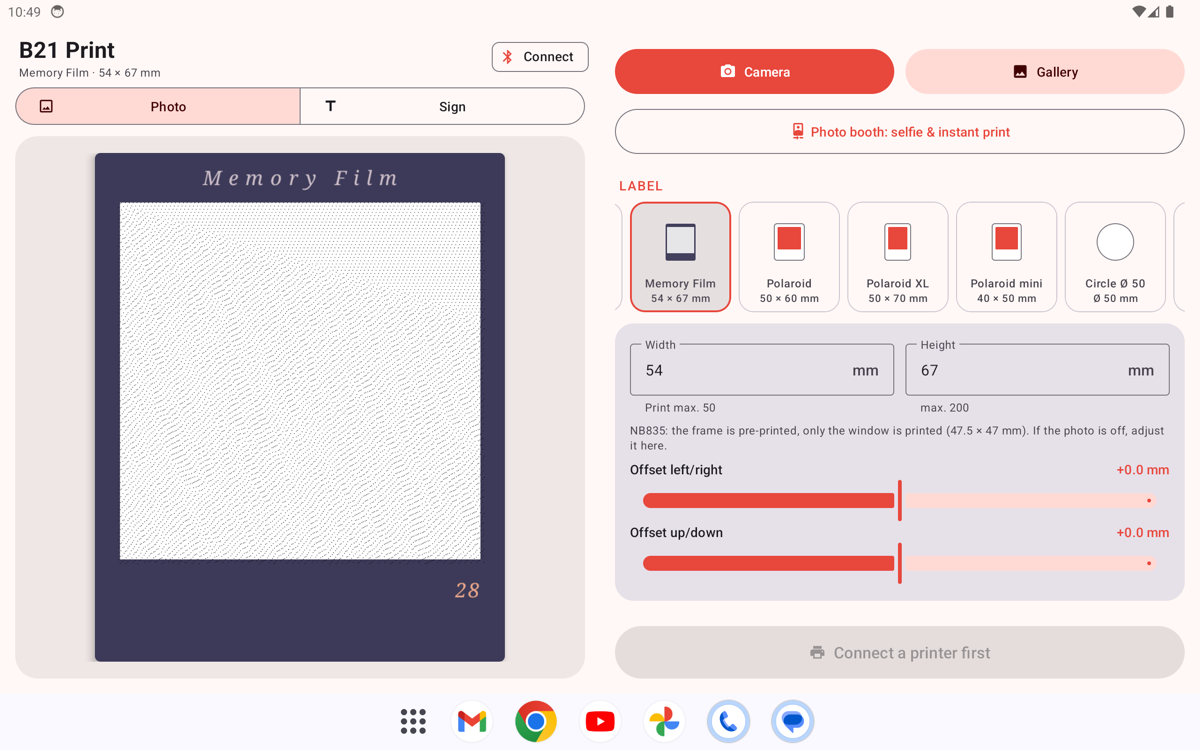
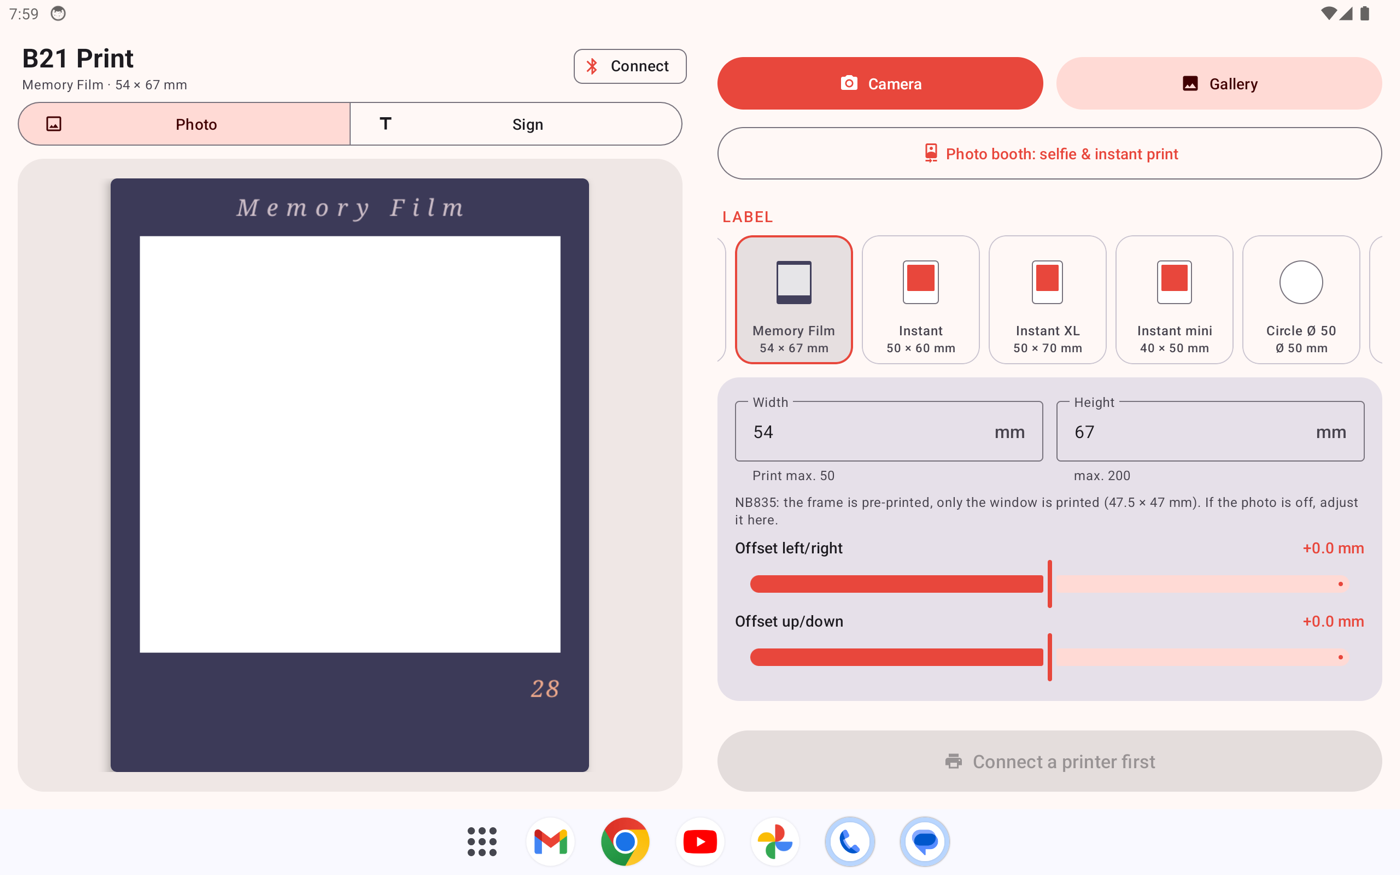
Print quality, print speed, booth button fix, rename to Instant
- Dot-gain compensation and softer sharpening so mid-tones no longer bleed to
  black at full heat; preview now simulates the ink spread to match the print.
- Print speed toggle (fine/fast) via the D110M_V4 print-start byte.
- Photo booth: icon-only flash so the flip-camera button stays on screen on phones.
- Replace the Polaroid trademark with Instant throughout (UI, code, docs, screenshots).

diff --git a/app/src/main/java/de/b21print/MainActivity.kt b/app/src/main/java/de/b21print/MainActivity.kt
@@ -90,7 +90,7 @@ class MainActivity : AppCompatActivity() {
     private lateinit var editCaption: TextInputEditText
     private lateinit var editCopies: TextInputEditText
     private lateinit var editText: TextInputEditText
-    private lateinit var switchPolaroid: MaterialSwitch
+    private lateinit var switchInstant: MaterialSwitch
     private lateinit var switchInvert: MaterialSwitch
     private lateinit var toggleMode: MaterialButtonToggleGroup
     private lateinit var toggleFont: MaterialButtonToggleGroup
@@ -121,7 +121,7 @@ class MainActivity : AppCompatActivity() {
         editCaption = findViewById(R.id.editCaption)
         editCopies = findViewById(R.id.editCopies)
         editText = findViewById(R.id.editText)
-        switchPolaroid = findViewById(R.id.switchPolaroid)
+        switchInstant = findViewById(R.id.switchInstant)
         switchInvert = findViewById(R.id.switchInvert)
         toggleMode = findViewById(R.id.toggleMode)
         toggleFont = findViewById(R.id.toggleFont)
@@ -188,12 +188,17 @@ class MainActivity : AppCompatActivity() {
             txtDensity.text = v.toInt().toString()
             prefs.edit().putInt("density", v.toInt()).apply()
         }
+        val toggleSpeed = findViewById<MaterialButtonToggleGroup>(R.id.toggleSpeed)
+        toggleSpeed.check(if (prefs.getInt("speed", 1) == 0) R.id.speedFast else R.id.speedFine)
+        toggleSpeed.addOnButtonCheckedListener { _, id, checked ->
+            if (checked) prefs.edit().putInt("speed", if (id == R.id.speedFast) 0 else 1).apply()
+        }
 
         // Label
         editWidth.doAfterTextChanged { onSizeEdited() }
         editHeight.doAfterTextChanged { onSizeEdited() }
         editCaption.doAfterTextChanged { scheduleRender() }
-        switchPolaroid.setOnCheckedChangeListener { _, _ -> applyModeVisibility(); scheduleRender() }
+        switchInstant.setOnCheckedChangeListener { _, _ -> applyModeVisibility(); scheduleRender() }
         // Fine-tuning is stored per label (calibrate once)
         val txtOffX = findViewById<TextView>(R.id.txtOffsetX)
         val txtOffY = findViewById<TextView>(R.id.txtOffsetY)
@@ -278,8 +283,8 @@ class MainActivity : AppCompatActivity() {
         show(R.id.imageSection, photo)
         show(R.id.textCard, !photo)
         show(R.id.windowTuning, win)
-        show(R.id.switchPolaroid, photo && !win && !selectedLabel.round)
-        show(R.id.captionLayout, photo && !win && switchPolaroid.isChecked)
+        show(R.id.switchInstant, photo && !win && !selectedLabel.round)
+        show(R.id.captionLayout, photo && !win && switchInstant.isChecked)
     }
 
     // ---------- Label list ----------
@@ -325,7 +330,7 @@ class MainActivity : AppCompatActivity() {
                     ((preset.widthMm - win.x - win.w) * s).toInt(), ((preset.heightMm - win.y - win.h) * s).toInt())
             }
         }
-        if (!preset.polaroid) return frame
+        if (!preset.instant) return frame
         val photo = GradientDrawable().apply { setColor(primary); cornerRadius = dp(1f) }
         return LayerDrawable(arrayOf(frame, photo)).apply {
             val side = dp(4f).toInt()
@@ -348,7 +353,7 @@ class MainActivity : AppCompatActivity() {
             editWidth.setText(fmt(preset.widthMm))
             editHeight.setText(fmt(preset.heightMm))
             suppressEdits = false
-            switchPolaroid.isChecked = preset.polaroid
+            switchInstant.isChecked = preset.instant
         }
         preset.window?.let { win ->
             findViewById<TextView>(R.id.txtWindowInfo).text =
@@ -369,9 +374,9 @@ class MainActivity : AppCompatActivity() {
         // Only count real input, not Android restoring state
         if (suppressEdits || !(editWidth.hasFocus() || editHeight.hasFocus())) return
         if (!selectedLabel.freestyle) {
-            val pol = switchPolaroid.isChecked
+            val pol = switchInstant.isChecked
             selectLabel(Labels.FREESTYLE)
-            switchPolaroid.isChecked = pol
+            switchInstant.isChecked = pol
         }
         scheduleRender()
     }
@@ -618,7 +623,7 @@ class MainActivity : AppCompatActivity() {
             brightness = sliderBrightness.value.toInt(),
             contrast = sliderContrast.value.toInt(),
             invert = switchInvert.isChecked,
-            polaroid = switchPolaroid.isChecked && !label.round,
+            instant = switchInstant.isChecked && !label.round,
             caption = editCaption.text?.toString().orEmpty(),
             offsetXMm = if (label.window != null) sliderOffsetX.value.toDouble() else 0.0,
             offsetYMm = if (label.window != null) sliderOffsetY.value.toDouble() else 0.0,
@@ -638,8 +643,8 @@ class MainActivity : AppCompatActivity() {
         l.window?.let { return (it.w / it.h).toFloat() }
         if (l.round) return 1f
         val (wmm, hmm) = labelSizeMm()
-        if (switchPolaroid.isChecked) {
-            val r = ImageProcessor.polaroidPhotoRect(ImageProcessor.mmToPx(minOf(wmm, 50.0)), ImageProcessor.mmToPx(hmm))
+        if (switchInstant.isChecked) {
+            val r = ImageProcessor.instantPhotoRect(ImageProcessor.mmToPx(minOf(wmm, 50.0)), ImageProcessor.mmToPx(hmm))
             return r.width().toFloat() / r.height()
         }
         return (minOf(wmm, 50.0) / hmm).toFloat()
@@ -819,6 +824,7 @@ class MainActivity : AppCompatActivity() {
             photoAspect = photoAspect(),
             options = photoOptions(ImageProcessor.Fit.COVER),
             density = sliderDensity.value.toInt(),
+            speed = prefs.getInt("speed", 1),
             labelType = intArrayOf(1, 2, 3, 5)[paperIndex],
             copies = num(editCopies.text, 1.0).toInt().coerceIn(1, 20),
         )
@@ -832,6 +838,7 @@ class MainActivity : AppCompatActivity() {
         val copies = num(editCopies.text, 1.0).toInt().coerceIn(1, 999)
         val labelType = intArrayOf(1, 2, 3, 5)[paperIndex]
         val textStyle = if (textMode) currentTextStyle() else null
+        p.speed = prefs.getInt("speed", 1)
         btnPrint.isEnabled = false
         btnPrint.setText(R.string.printing)
         progress.visibility = View.VISIBLE

diff --git a/app/src/main/java/de/b21print/ImageProcessor.kt b/app/src/main/java/de/b21print/ImageProcessor.kt
@@ -23,7 +23,7 @@ object ImageProcessor {
         val brightness: Int,   // -60..60
         val contrast: Int,     // -50..50
         val invert: Boolean,
-        val polaroid: Boolean,
+        val instant: Boolean,
         val caption: String,
         val offsetXMm: Double = 0.0,
         val offsetYMm: Double = 0.0,
@@ -38,8 +38,8 @@ object ImageProcessor {
 
     fun mmToPx(mm: Double) = Math.round(mm / 25.4 * Niimbot.DPI).toInt()
 
-    // Polaroid look: equal border top/sides, wider bottom border for the caption
-    fun polaroidPhotoRect(w: Int, h: Int): Rect {
+    // Instant look: equal border top/sides, wider bottom border for the caption
+    fun instantPhotoRect(w: Int, h: Int): Rect {
         val side = Math.round(w * 0.07f)
         val minBottom = Math.round(h * 0.2f)
         val photoW = w - 2 * side
@@ -81,7 +81,7 @@ object ImageProcessor {
                 mmToPx(window.x + window.w + BLEED_MM + o.offsetXMm) - headLeft,
                 mmToPx(window.y + window.h + BLEED_MM + o.offsetYMm),
             ).apply { intersect(0, 0, w, h) }
-            o.polaroid -> polaroidPhotoRect(w, h)
+            o.instant -> instantPhotoRect(w, h)
             else -> Rect(0, 0, w, h)
         }
         if (round) {
@@ -92,7 +92,7 @@ object ImageProcessor {
         }
         if (src != null) {
             drawFitted(canvas, src, area, o.fit, o.rotation)
-        } else if (o.polaroid || window != null) {
+        } else if (o.instant || window != null) {
             // Placeholder so the layout is visible
             canvas.drawRect(area, Paint().apply { color = Color.rgb(210, 210, 210) })
         }
@@ -102,7 +102,7 @@ object ImageProcessor {
         val bits = toBits(px, w, h, area, o)
         canvasBmp.recycle()
 
-        if (o.polaroid && window == null) {
+        if (o.instant && window == null) {
             // Thin line around the photo so bright images still stand out
             for (x in area.left until area.right) {
                 bits[area.top * w + x] = 1; bits[(area.bottom - 1) * w + x] = 1
@@ -126,8 +126,24 @@ object ImageProcessor {
             val r = mmToPx(window.x + window.w); val b = mmToPx(window.y + window.h)
             for (y in t until minOf(b, h)) for (x in l until minOf(r, labelW)) out[y * labelW + x] = Color.WHITE
         }
+        // Simulate the printed dot: each black cell bleeds a little into its neighbours, so the
+        // preview darkens by the same amount the tones were pre-lightened for. Preview ≈ print.
         for (y in 0 until h) for (x in 0 until w) {
-            if (bits[y * w + x].toInt() != 0) out[y * labelW + headLeft + x] = Color.BLACK
+            val i = y * w + x
+            if (bits[i].toInt() != 0) {
+                out[y * labelW + headLeft + x] = Color.BLACK
+            } else if (x > 0 && y > 0 && x < w - 1 && y < h - 1) {
+                var n = 0
+                if (bits[i - 1].toInt() != 0) n++
+                if (bits[i + 1].toInt() != 0) n++
+                if (bits[i - w].toInt() != 0) n++
+                if (bits[i + w].toInt() != 0) n++
+                if (n > 0) {
+                    val ink = (DOT_GAIN * n / 4.0).coerceIn(0.0, 1.0)
+                    val g = (255 * (1 - ink)).toInt()
+                    out[y * labelW + headLeft + x] = Color.rgb(g, g, g)
+                }
+            }
         }
         return Bitmap.createBitmap(out, labelW, h, Bitmap.Config.ARGB_8888).let {
             if (window != null && frameColor != null) decorateFilm(it, window) else it
@@ -190,8 +206,13 @@ object ImageProcessor {
         g * a + 255f * (1 - a)
     }
 
+    // At full heat each printed dot bleeds into its neighbours, so a mid-tone dither pattern
+    // comes out much darker than on screen. We pre-lighten the tones by the inverse of that
+    // spread; black and white stay put, mid-tones lose ink. 0 = off, ~0.55 = strong thermal.
+    private const val DOT_GAIN = 0.55
+
     // Prepare tones for thermal printing: auto contrast in the photo area, brightness/contrast,
-    // gamma against dot gain, and light sharpening.
+    // gentle sharpening, and dot-gain compensation so the print matches the preview.
     private fun prepare(gray: FloatArray, w: Int, h: Int, area: Rect, o: Options) {
         val r = Rect(area).apply { intersect(0, 0, w, h) }
         if (r.isEmpty) return
@@ -209,21 +230,26 @@ object ImageProcessor {
         if (hi - lo < 32f) { lo = 0f; hi = 255f }
         val contrast = 1f + o.contrast / 50f * 0.8f
         val bright = o.brightness * 1.5f
-        val gamma = if (o.raster == Raster.TEXT) 1f else 0.75f
+        val photo = o.raster != Raster.TEXT
 
-        // Unsharp mask (3×3) for more detail at 300 dpi
+        // Unsharp mask (3×3); kept light so scaled high-contrast edges do not bloom at full heat
         val src = gray.copyOf()
         for (y in r.top until r.bottom) for (x in r.left until r.right) {
             val i = y * w + x
             var v = src[i]
-            if (o.raster != Raster.TEXT && x > r.left && y > r.top && x < r.right - 1 && y < r.bottom - 1) {
+            if (photo && x > r.left && y > r.top && x < r.right - 1 && y < r.bottom - 1) {
                 val blur = (src[i - 1] + src[i + 1] + src[i - w] + src[i + w] + 4 * v) / 8f
-                v += 0.8f * (v - blur)
+                v += 0.4f * (v - blur)
             }
             v = (v - lo) / (hi - lo) * 255f
             v = (v - 128f) * contrast + 128f + bright
-            v = 255f * Math.pow((v / 255f).coerceIn(0f, 1f).toDouble(), gamma.toDouble()).toFloat()
-            gray[i] = if (o.invert) 255f - v else v
+            if (photo) {
+                // Dot-gain compensation in ink-coverage space (d = 1 - v, 1 = full black)
+                val d = (1f - v / 255f).coerceIn(0f, 1f)
+                val di = d * (1f - DOT_GAIN.toFloat() * (1f - d))
+                v = (1f - di) * 255f
+            }
+            gray[i] = if (o.invert) 255f - v else v.coerceIn(0f, 255f)
         }
     }
 

diff --git a/app/src/main/java/de/b21print/BoothActivity.kt b/app/src/main/java/de/b21print/BoothActivity.kt
@@ -49,6 +49,7 @@ object Booth {
         val photoAspect: Float,
         val options: ImageProcessor.Options,
         val density: Int,
+        val speed: Int,
         val labelType: Int,
         val copies: Int,
     )
@@ -190,7 +191,7 @@ class BoothActivity : AppCompatActivity() {
         val size = if (cfg.label.round) getString(R.string.size_round, fmt(cfg.widthMm))
             else getString(R.string.size_rect, fmt(cfg.widthMm), fmt(cfg.heightMm))
         val extras = buildList {
-            if (cfg.options.polaroid) add("Polaroid")
+            if (cfg.options.instant) add("Instant")
             if (cfg.copies > 1) add("${cfg.copies}×")
         }.joinToString(" · ")
         findViewById<TextView>(R.id.txtBoothInfo).text =
@@ -265,8 +266,9 @@ class BoothActivity : AppCompatActivity() {
     }
 
     private fun updateFlashButton() {
-        btnFlash.text = getString(if (screenFlash) R.string.flash_on else R.string.flash_off)
-        btnFlash.alpha = if (screenFlash) 1f else 0.6f
+        // Icon-only toggle: full opacity = flash on, dimmed = off
+        btnFlash.contentDescription = getString(if (screenFlash) R.string.flash_on else R.string.flash_off)
+        btnFlash.alpha = if (screenFlash) 1f else 0.45f
     }
 
     private fun startCamera() {
@@ -400,6 +402,7 @@ class BoothActivity : AppCompatActivity() {
         txtStatus.setText(R.string.booth_printing)
         scope.launch {
             val ok = try {
+                p.speed = cfg.speed
                 p.print(r.bits, r.width, r.height, cfg.density, cfg.labelType, cfg.copies) { f ->
                     runOnUiThread { progress.setProgressCompat((f * 1000).toInt(), true) }
                 }

diff --git a/app/src/main/java/de/b21print/Labels.kt b/app/src/main/java/de/b21print/Labels.kt
@@ -13,7 +13,7 @@ data class LabelPreset(
     val widthMm: Double,
     val heightMm: Double,
     // The app prints the frame itself (for plain white labels)
-    val polaroid: Boolean = false,
+    val instant: Boolean = false,
     val freestyle: Boolean = false,
     // Pre-printed frame: only the window is printed
     val window: PhotoWindow? = null,
@@ -42,9 +42,9 @@ object Labels {
     val ALL = listOf(
         FREESTYLE,
         NB835,
-        LabelPreset("Polaroid", R.string.label_polaroid, 50.0, 60.0, polaroid = true),
-        LabelPreset("Polaroid XL", R.string.label_polaroid_xl, 50.0, 70.0, polaroid = true),
-        LabelPreset("Polaroid mini", R.string.label_polaroid_mini, 40.0, 50.0, polaroid = true),
+        LabelPreset("Instant", R.string.label_instant, 50.0, 60.0, instant = true),
+        LabelPreset("Instant XL", R.string.label_instant_xl, 50.0, 70.0, instant = true),
+        LabelPreset("Instant mini", R.string.label_instant_mini, 40.0, 50.0, instant = true),
         LabelPreset("Circle 50", R.string.label_circle, 50.0, 50.0, round = true),
         LabelPreset("Circle 40", R.string.label_circle, 40.0, 40.0, round = true),
         LabelPreset("Circle 30", R.string.label_circle, 30.0, 30.0, round = true),

diff --git a/app/src/main/java/de/b21print/B21Printer.kt b/app/src/main/java/de/b21print/B21Printer.kt
@@ -284,9 +284,8 @@ class B21Printer(
 
     var variant: Variant? = null
 
-    // Bytes 8/9 of the V4 print start (speed/quality, flag), 0 = printer default
-    var quality = 0
-    var flag = 0
+    // Print speed, part of the V4 (D110M_V4) print start: 1 = clarity (default), 0 = speed.
+    var speed = 1
     // Log every reply (diagnostics)
     var verbose = false
     var onVariantFound: (Variant) -> Unit = {}
@@ -302,7 +301,8 @@ class B21Printer(
 
     private suspend fun startPage(v: Variant, width: Int, height: Int, copies: Int) {
         val ps = when (v) {
-            Variant.V4 -> Niimbot.u16(copies) + intArrayOf(0, 0, 0, 0, 0, quality, flag)
+            // 9-byte D110M_V4 start: copies, 0,0,0,0, pageColor(0), speed, flag(0)
+            Variant.V4 -> Niimbot.u16(copies) + intArrayOf(0, 0, 0, 0, 0, speed, 0)
             Variant.B1 -> Niimbot.u16(copies) + intArrayOf(0, 0, 0, 0, 0)
             Variant.V1 -> intArrayOf(1)
         }

diff --git a/README.md b/README.md
@@ -15,7 +15,7 @@ for tablets.
 - Camera, gallery, or *Share* from any other app; crop with label-shaped or free framing
 - Three raster modes: photo (Atkinson dithering), dots (halftone), text/logo (hard threshold)
 - Brightness, contrast, invert
-- Polaroid frame with an optional caption, printed by the app on plain labels
+- Instant frame with an optional caption, printed by the app on plain labels
 - NB835 *Memory Film* labels with a pre-printed frame: prints only into the window, with
   per-label offset fine-tuning that is remembered
 
@@ -33,9 +33,11 @@ for tablets.
 - Volume keys and Bluetooth selfie remotes work as a shutter
 
 **Labels**
-- Presets for common B21 sizes (rectangular, square, round, polaroid) and a custom size
+- Presets for common B21 sizes (rectangular, square, round, instant-style) and a custom size
   (print width up to 50 mm, length up to 200 mm)
-- Gap, black mark, continuous and transparent paper; density 1–5; multiple copies
+- Gap, black mark, continuous and transparent paper; multiple copies
+- Density 1–5 and two print speeds (fine/fast), both printer-side; dot-gain compensation on the
+  image side so the print matches the preview
 
 **Layout**
 - Phone, tablet portrait and a two-column tablet landscape layout
@@ -102,7 +104,7 @@ main reference.
 |----------------------|-------------------------------------------------------------|
 | `Niimbot.kt`         | packet encoding and parsing, row encoding                   |
 | `B21Printer.kt`      | BLE connection, print sequence, firmware update             |
-| `ImageProcessor.kt`  | scaling, tone curve, dithering, polaroid/window composition |
+| `ImageProcessor.kt`  | scaling, tone curve, dot-gain, dithering, frame/window composition |
 | `TextLabel.kt`       | sign rendering                                              |
 | `Labels.kt`          | label presets                                               |
 | `MainActivity.kt`    | main screen                                                 |
